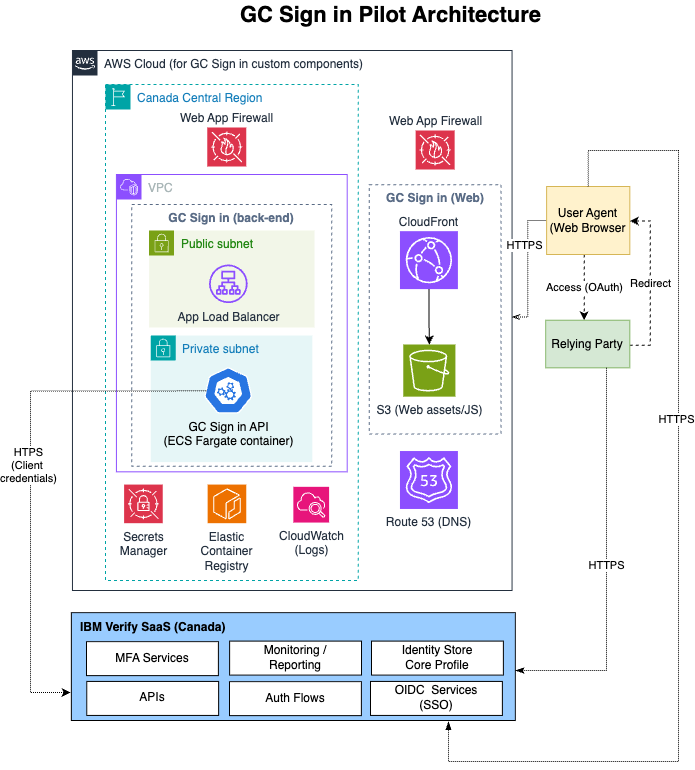
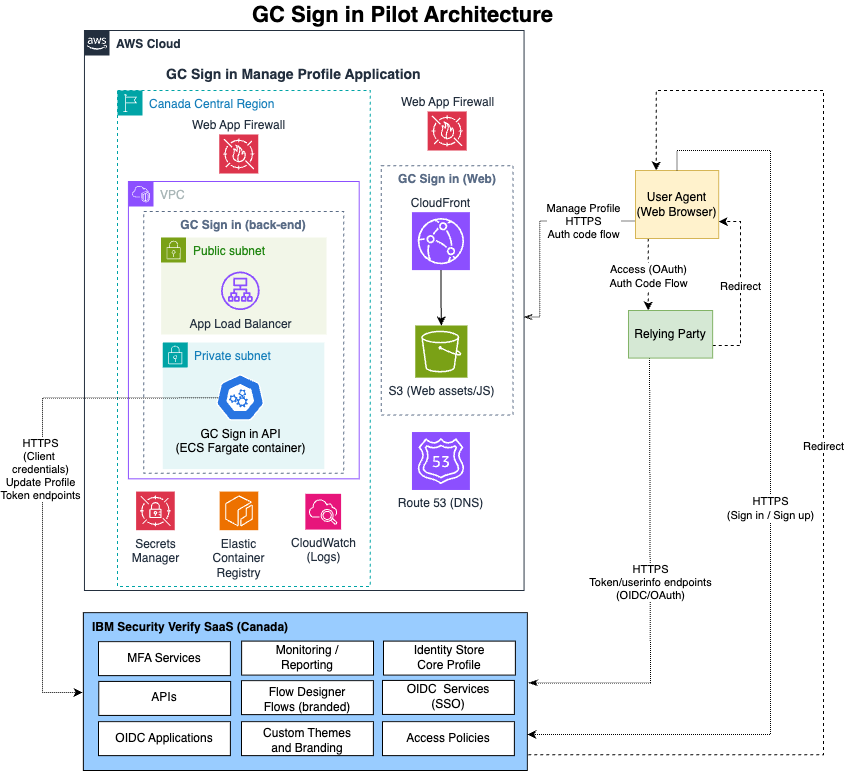
Updated architecture and README to reflect new scope of the custom web application.

diff --git a/README.md b/README.md
@@ -1,17 +1,6 @@
-# GC Sign in
+# GC Sign in User Self-service application
 
-Provides a modern and accessible React front-end built with the [GC Design System](https://github.com/cds-snc/gcds-components), and a supporting FastAPI back-end API that integrates with the IBM Verify SaaS to enable OIDC single sign-on flows including Sign Up with password+MFA, Sign in and Management of a user's profile.
-
-## Overview
-
-**GC Sign in** integrates with IBM Security Verify to provide a secure and flexible authentication system supporting the following authentication methods.
-
-### For initial pilot release
-- Password + SMS or Voice OTP MFA authentication
-
-### For future releases
-- Passkey (FIDO2/WebAuthn) authentication
-- Multi-factor authentication (MFA) using TOTP
+A modern and accessible web application that allows users to make changes to their GC Sign in account.  Built with a React front-end using the [GC Design System](https://github.com/cds-snc/gcds-components), and a supporting FastAPI back-end API that integrates with the IBM Verify SaaS (IdP) to handle login, logout and profile updates.
 
 ## Architecture
 This solution follows a BFF (backend for frontend) architectural pattern:
@@ -19,12 +8,7 @@ This solution follows a BFF (backend for frontend) architectural pattern:
 - Backend: FastAPI Python service
 - Authentication and Identity Store: IBM Security Verify CIAM
 - Infrastructure (AWS): ECS, ECR, ALB, Secrets Manager, CloudFront, Route 53, WAF, CloudWatch
-- Infrastructure (IBM): IBM Security Verify SaaS Tenants
-
-### Environments
-- Development (DEV)
-- Staging (STAGING)
-- Production (PROD)
+- Infrastructure (IdP): IBM Security Verify SaaS
 
 ### Local Development Setup
 
